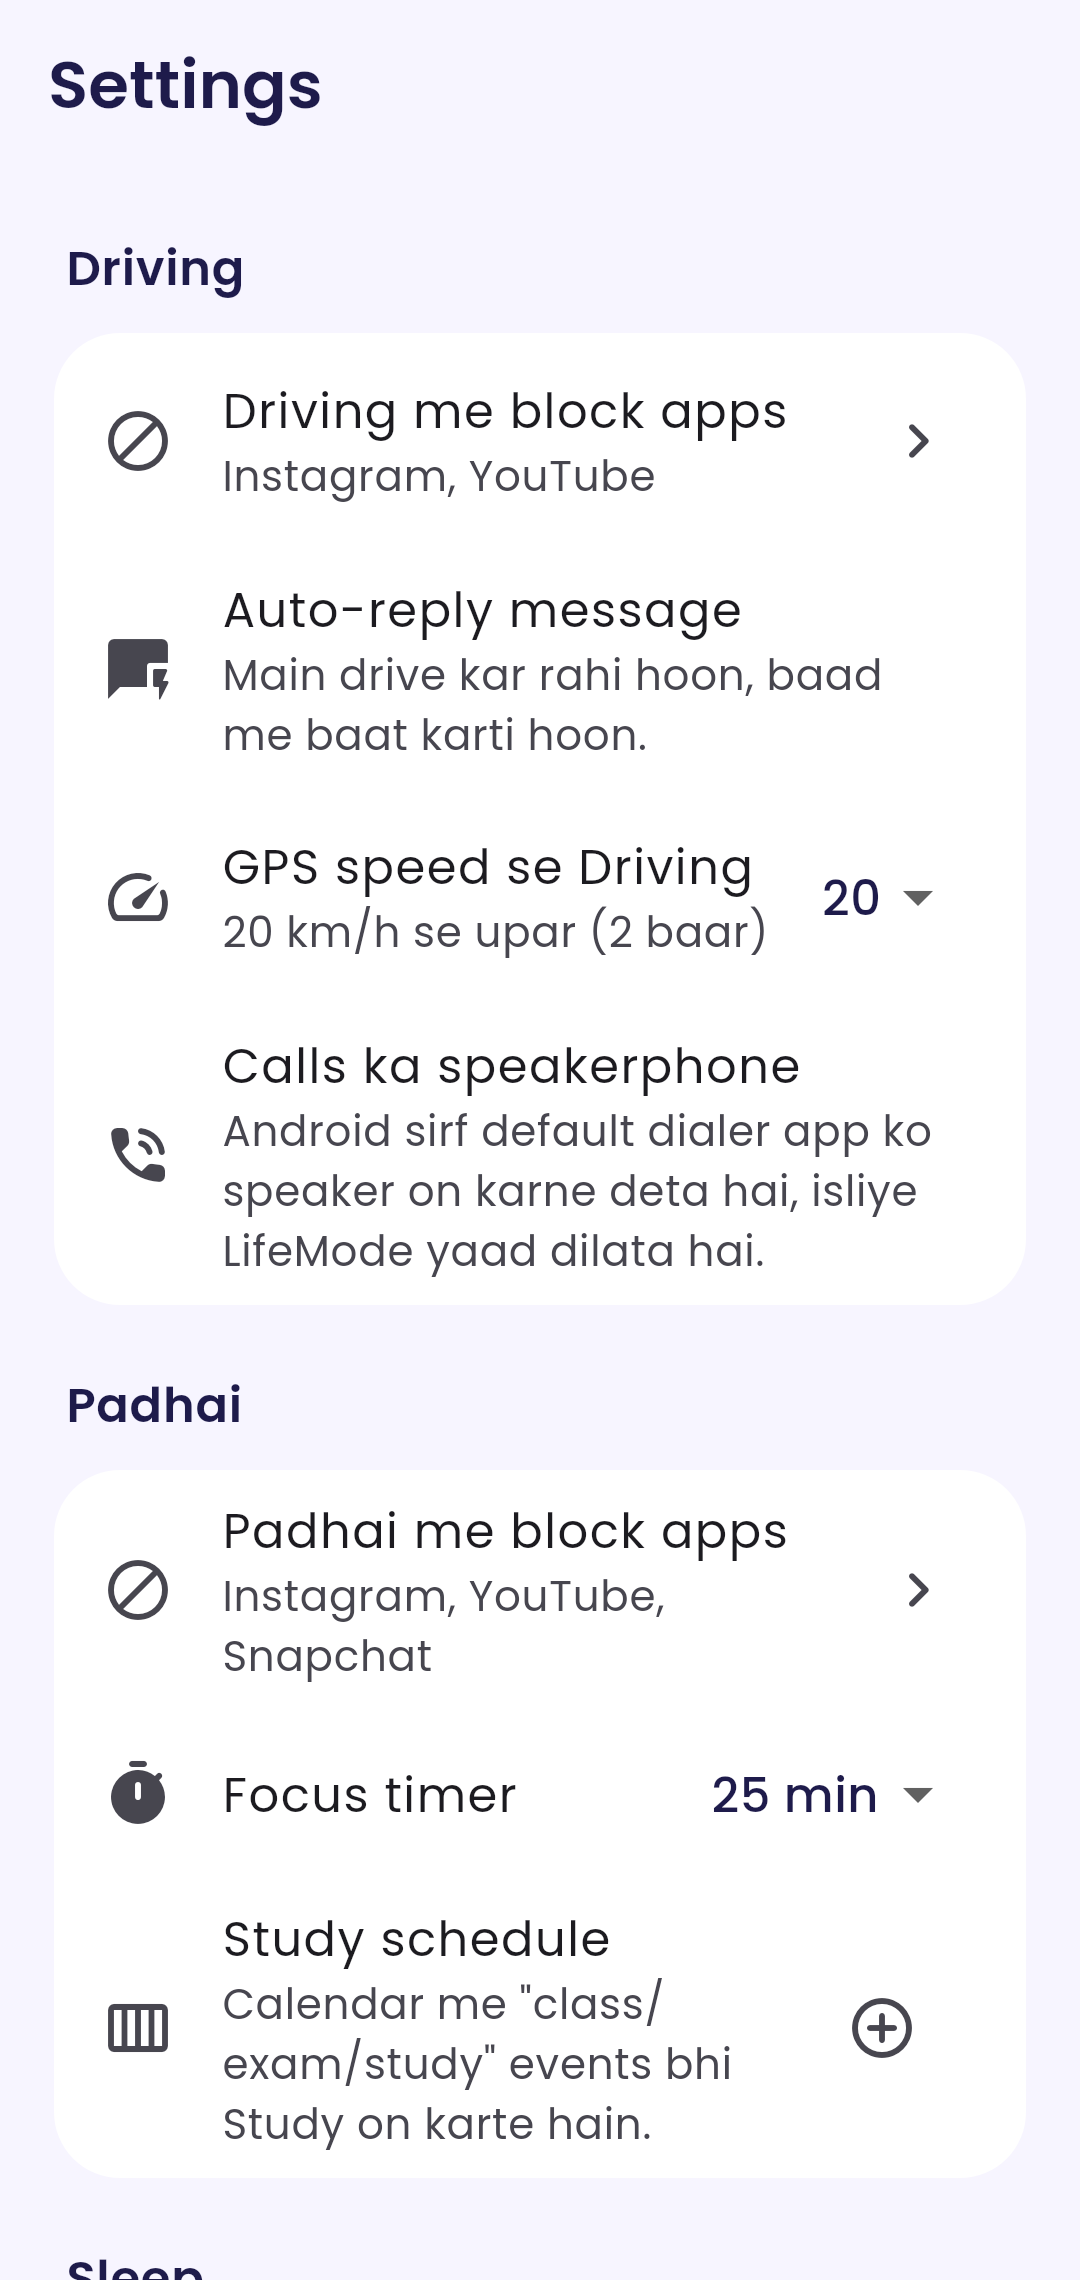
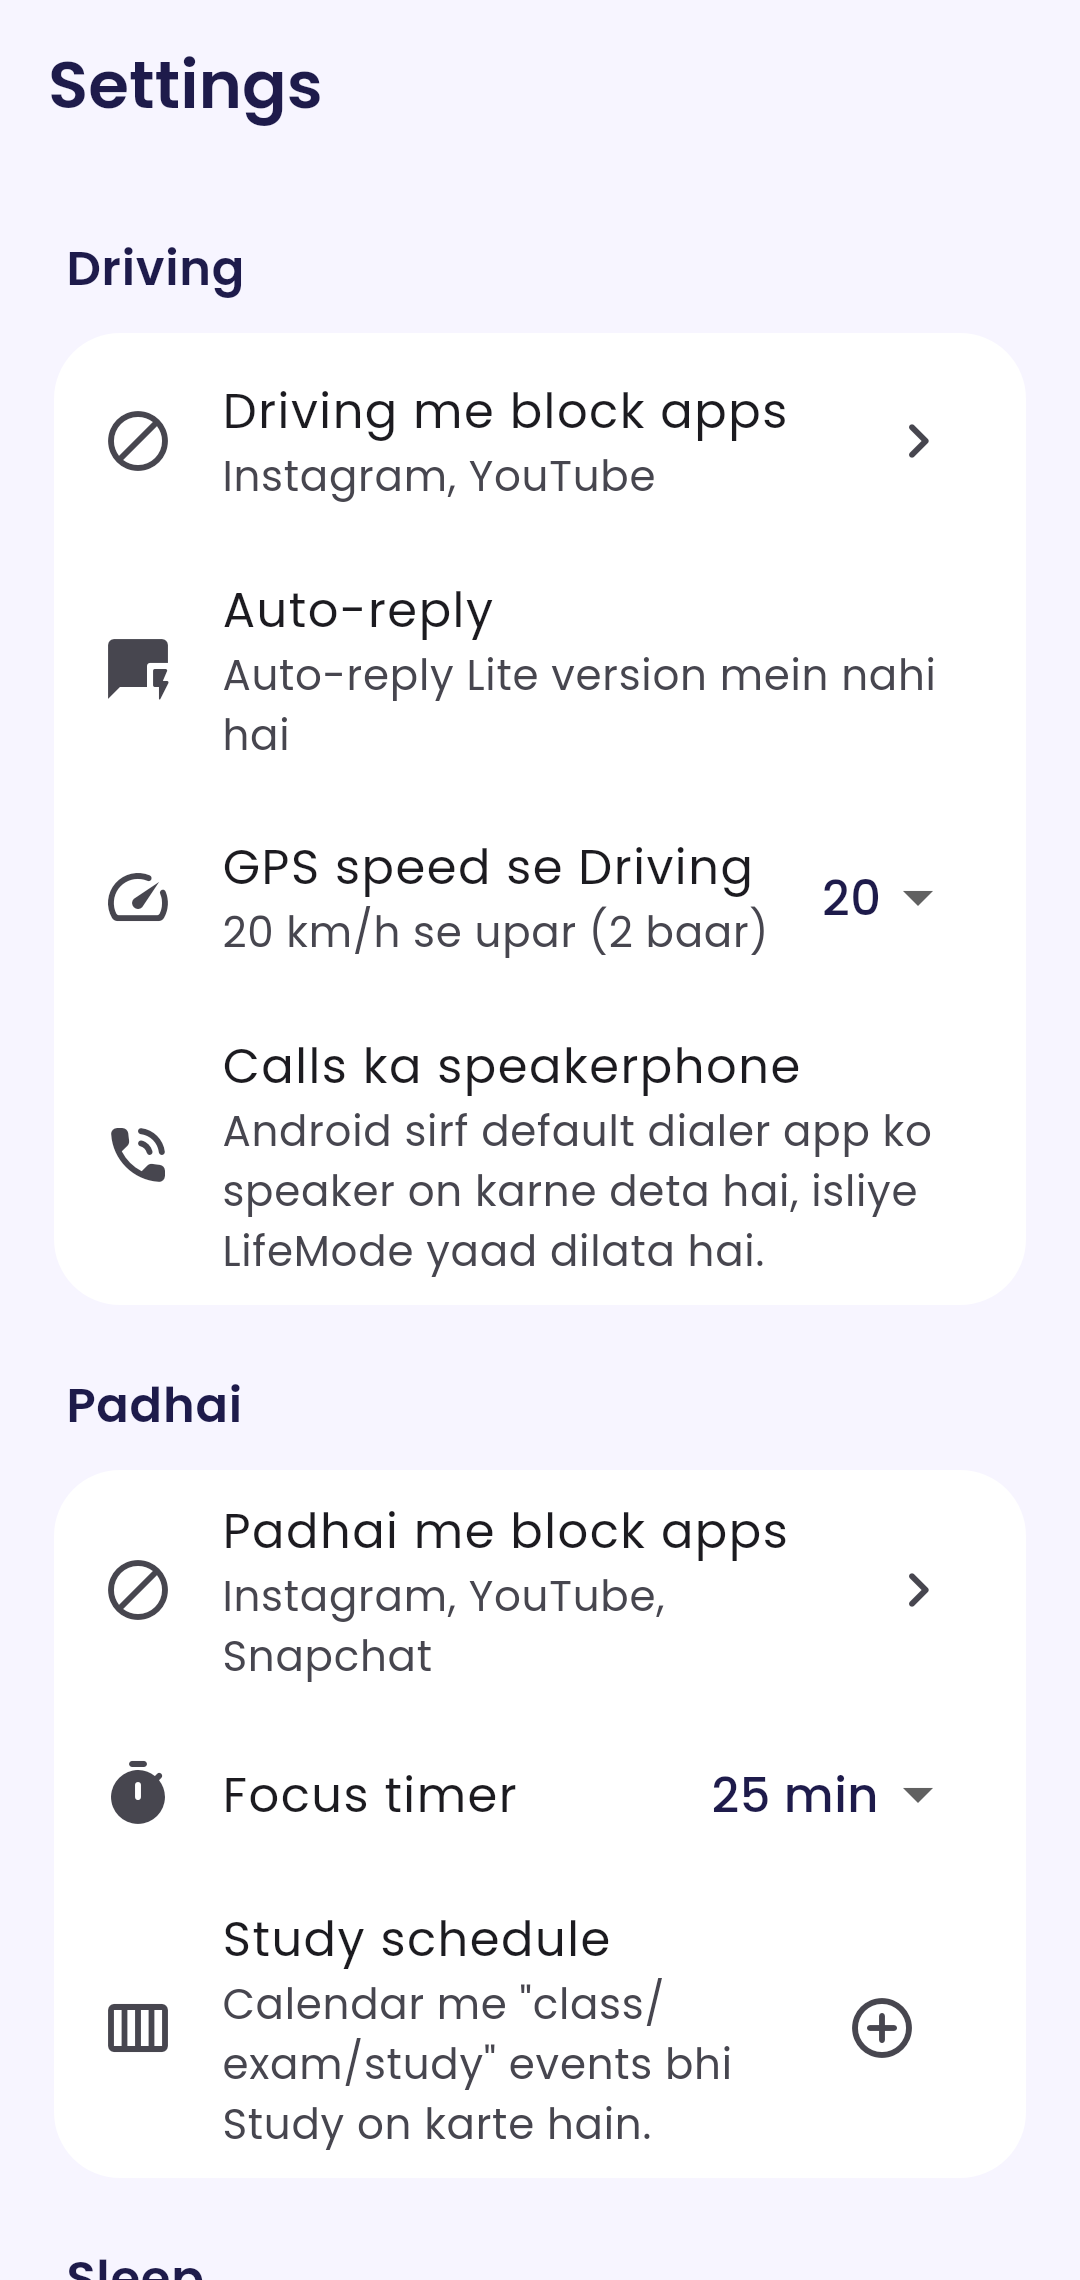
v1.0.1 Lite: drop sensitive permissions for Play Protect

Changed region(s): [[0.2139, 0.2491, 0.8556, 0.3425]]

diff --git a/test/lite_test.dart b/test/lite_test.dart
@@ -1,0 +1,72 @@
+// LifeMode Lite (v1.0.1): guards against re-adding the permissions that make
+// Google Play Protect's enhanced fraud protection block sideloaded installs.
+import 'dart:io';
+
+import 'package:flutter/material.dart';
+import 'package:flutter_test/flutter_test.dart';
+import 'package:lifemode/core/brain.dart';
+import 'package:lifemode/core/i18n.dart';
+import 'package:lifemode/core/models.dart';
+import 'package:lifemode/data/db.dart';
+import 'package:lifemode/platform/native_bridge.dart';
+import 'package:lifemode/state/app_state.dart';
+import 'package:lifemode/ui/screens/onboarding_screen.dart';
+import 'package:lifemode/ui/screens/settings_screen.dart';
+import 'package:lifemode/ui/theme.dart';
+
+void main() {
+  final manifest = File('android/app/src/main/AndroidManifest.xml').readAsStringSync();
+
+  test('manifest has no NotificationListener or AccessibilityService', () {
+    expect(manifest, isNot(contains('BIND_NOTIFICATION_LISTENER_SERVICE')));
+    expect(manifest, isNot(contains('BIND_ACCESSIBILITY_SERVICE')));
+    expect(manifest, isNot(contains('NotificationListenerService')));
+    expect(manifest, isNot(contains('android.accessibilityservice')));
+  });
+
+  test('risky permissions are only present as tools:node="remove"', () {
+    const risky = [
+      'READ_SMS', 'RECEIVE_SMS', 'SEND_SMS', 'READ_CALL_LOG', 'READ_PHONE_STATE',
+      'QUERY_ALL_PACKAGES', 'REQUEST_INSTALL_PACKAGES',
+    ];
+    final lines = manifest.split('\n');
+    for (final p in risky) {
+      for (final l in lines.where((l) => l.contains('android.permission.$p"'))) {
+        expect(l, contains('tools:node="remove"'), reason: '$p must not be requested');
+      }
+    }
+  });
+
+  test('onboarding no longer asks for notification access or accessibility', () {
+    final keys = permissionList.map((p) => p.key).toList();
+    expect(keys, isNot(contains('listener')));
+    expect(keys, isNot(contains('accessibility')));
+    expect(permissionList.firstWhere((p) => p.key == 'overlay').optional, isTrue);
+  });
+
+  test('config drops auto-reply but still reads a v1.0 config', () {
+    final json = const LifeConfig().toJson();
+    expect(json.containsKey('autoReply'), isFalse);
+    expect(json.containsKey('autoReplyText'), isFalse);
+    final old = LifeConfig.fromJson({...json, 'autoReply': true, 'autoReplyText': 'Drive kar rahi hoon'});
+    expect(old.familyName, const LifeConfig().familyName);
+  });
+
+  test('driving notification does not promise an auto-reply', () {
+    final r = Brain.tick(
+        ContextSnapshot(nowMs: DateTime(2026, 11, 9, 16).millisecondsSinceEpoch, activity: 'IN_VEHICLE', speedKmh: 40),
+        const LifeConfig());
+    expect(r.decision.mode, LifeMode.driving);
+    expect(r.body.toLowerCase(), isNot(contains('auto-reply')));
+    expect(const T('hi').modeTagline(LifeMode.driving).toLowerCase(), isNot(contains('auto-reply')));
+  });
+
+  testWidgets('settings shows the Lite auto-reply note', (tester) async {
+    final s = AppState(FakeBridge(config: const LifeConfig(onboarded: true)), MemoryLifeStore(),
+        clock: () => DateTime(2026, 11, 9, 13));
+    await s.init();
+    await tester.pumpWidget(AppScope(state: s, child: MaterialApp(theme: buildTheme(), home: const SettingsScreen())));
+    await tester.pump();
+    expect(find.text(T.liteNoAutoReply), findsOneWidget);
+  });
+}

diff --git a/android/app/src/main/kotlin/com/tanveer/lifemode/ContextService.kt b/android/app/src/main/kotlin/com/tanveer/lifemode/ContextService.kt
@@ -1,5 +1,6 @@
 package com.tanveer.lifemode
 
+import android.provider.Settings
 import android.Manifest
 import android.annotation.SuppressLint
 import android.app.AlarmManager
@@ -212,7 +213,7 @@ class ContextService : Service(), SensorEventListener {
         try { sm.unregisterListener(this) } catch (_: Exception) {}
         try { LocationServices.getFusedLocationProviderClient(this).removeLocationUpdates(locCb) } catch (_: Exception) {}
         exitMode(currentMode)
-        Live.autoReplyActive = false; Live.blockList = emptySet()
+        Live.blockList = emptySet()
         pushStatus()
     }
 
@@ -486,8 +487,6 @@ class ContextService : Service(), SensorEventListener {
             "study" -> Store.strList(cfg, "blockStudy").toSet()
             else -> emptySet()
         }
-        Live.autoReplyActive = mode == "driving" && cfg.optBoolean("autoReply", true)
-        Live.autoReplyText = cfg.optString("autoReplyText", "Main drive kar rahi hoon, baad me baat karti hoon.")
         updateCard(r, cfg)
         r.optJSONObject("suggestion")?.let { showSuggestion(it) }
         pushStatus()
@@ -642,7 +641,7 @@ class ContextService : Service(), SensorEventListener {
     // ---------------------------------------------------------------- blocking
     private val pollLoop = object : Runnable {
         override fun run() {
-            if (Live.blockList.isNotEmpty() && screenOn && !BlockAccessibility.connected) {
+            if (Live.blockList.isNotEmpty() && screenOn) {
                 val (fg, _) = usage(60_000L)
                 checkBlocked(this@ContextService, fg)
             }
@@ -655,7 +654,9 @@ class ContextService : Service(), SensorEventListener {
     private fun pushStatus() { val s = Live.status(this); h.post { Live.statusSink?.invoke(s) } }
 }
 
-/** Shared by the poll loop and the optional AccessibilityService. */
+/** Called by the UsageStats poll loop (Lite: no AccessibilityService). Opens our own
+ *  full-screen BlockActivity. On Android 10+ a background start needs "Display over other
+ *  apps"; without it we fall back to a high-priority notification that opens the shield. */
 object Blocker {
     private var lastAt = 0L
     private var lastPkg = ""
@@ -668,6 +669,13 @@ object Blocker {
         val i = Intent(c, BlockActivity::class.java)
             .addFlags(Intent.FLAG_ACTIVITY_NEW_TASK or Intent.FLAG_ACTIVITY_CLEAR_TOP or Intent.FLAG_ACTIVITY_NO_ANIMATION)
             .putExtra("pkg", pkg).putExtra("mode", Live.mode)
-        try { c.startActivity(i) } catch (_: Exception) {}
+        val canStart = Build.VERSION.SDK_INT < 29 || Settings.canDrawOverlays(c)
+        if (canStart) { try { c.startActivity(i); return } catch (_: Exception) {} }
+        val label = try { c.packageManager.getApplicationLabel(c.packageManager.getApplicationInfo(pkg, 0)).toString() } catch (_: Exception) { pkg }
+        Notifs.post(c, Notifs.ID_BLOCK, Notifs.base(c, Notifs.CH_ALERT,
+            if (Live.mode == "driving") "Driving Mode on" else Store.s(c, "Padhai Mode on", "Study Mode on"),
+            Store.s(c, "$label abhi blocked hai.", "$label is blocked right now."))
+            .setContentIntent(Notifs.activity(c, i)).setAutoCancel(true).setTimeoutAfter(30_000)
+            .setPriority(androidx.core.app.NotificationCompat.PRIORITY_HIGH))
     }
 }

diff --git a/lib/ui/screens/onboarding_screen.dart b/lib/ui/screens/onboarding_screen.dart
@@ -33,14 +33,12 @@ final permissionList = <PermInfo>[
       (t) => t.s('Kaunsa app samne hai (blocking ke liye), focus score aur late-night scrolling.',
           'Which app is open (for blocking), focus score and late-night scrolling.')),
   PermInfo('overlay', Icons.layers_rounded, (t) => t.s('Display over other apps', 'Display over other apps'),
-      (t) => t.s('Blocked app khulne par "Driving Mode on" screen dikhane ke liye.',
-          'To show the "Driving Mode on" screen when a blocked app opens.')),
+      (t) => t.s('Blocked app khulne par "Driving Mode on" screen kholne ke liye. Iske bina sirf notification aayega.',
+          'Lets LifeMode open the "Driving Mode on" screen when a blocked app opens. Without it you only get a notification.'),
+      optional: true),
   PermInfo('dnd', Icons.do_not_disturb_on_rounded, (t) => t.s('Do Not Disturb access', 'Do Not Disturb access'),
       (t) => t.s('Sleep/Driving me DND: sirf starred contacts aur repeat callers aayenge.',
           'DND in Sleep/Driving: only starred contacts and repeat callers ring.')),
-  PermInfo('listener', Icons.quickreply_rounded, (t) => t.s('Notification access', 'Notification access'),
-      (t) => t.s('Driving me WhatsApp/Instagram ko auto-reply. Messages save nahi hote.',
-          'Auto-reply to WhatsApp/Instagram while driving. Messages are never saved.')),
   PermInfo('calendar', Icons.event_rounded, (t) => t.s('Calendar', 'Calendar'),
       (t) => t.s('Class/exam events se Study mode aur "kal ke important kaam" reminder.',
           'Class/exam events for Study mode and the "tomorrow" reminder.'),
@@ -48,10 +46,6 @@ final permissionList = <PermInfo>[
   PermInfo('battery', Icons.battery_saver_rounded, (t) => t.s('Battery optimisation off', 'Ignore battery optimisation'),
       (t) => t.s('Kuch phones (Xiaomi, Oppo, Vivo) background apps band kar dete hain. Ye LifeMode ko chalne deta hai.',
           'Some phones (Xiaomi, Oppo, Vivo) kill background apps. This keeps LifeMode running.'),
-      optional: true),
-  PermInfo('accessibility', Icons.accessibility_new_rounded, (t) => t.s('Accessibility (optional)', 'Accessibility (optional)'),
-      (t) => t.s('Blocked app turant pakadne ke liye. Sirf app ka naam padhta hai, screen nahi.',
-          'Catches blocked apps instantly. Reads only the app name, never the screen.'),
       optional: true),
   PermInfo('mic', Icons.mic_none_rounded, (t) => t.s('Microphone (optional, OFF)', 'Microphone (optional, OFF)'),
       (t) => t.s('Sirf aawaz kitni tez hai (dB), kabhi recording nahi. Default band hai.',

diff --git a/android/app/src/main/kotlin/com/tanveer/lifemode/Perms.kt b/android/app/src/main/kotlin/com/tanveer/lifemode/Perms.kt
@@ -31,7 +31,6 @@ object Perms {
     fun all(c: Context): Map<String, Boolean> {
         val nm = c.getSystemService(Context.NOTIFICATION_SERVICE) as NotificationManager
         val pm = c.getSystemService(Context.POWER_SERVICE) as PowerManager
-        val acc = Settings.Secure.getString(c.contentResolver, Settings.Secure.ENABLED_ACCESSIBILITY_SERVICES) ?: ""
         return mapOf(
             "notifications" to NotificationManagerCompat.from(c).areNotificationsEnabled(),
             "location" to g(c, Manifest.permission.ACCESS_FINE_LOCATION),
@@ -41,8 +40,6 @@ object Perms {
             "usage" to usage(c),
             "overlay" to (Build.VERSION.SDK_INT < 23 || Settings.canDrawOverlays(c)),
             "dnd" to (Build.VERSION.SDK_INT < 23 || nm.isNotificationPolicyAccessGranted),
-            "listener" to NotificationManagerCompat.getEnabledListenerPackages(c).contains(c.packageName),
-            "accessibility" to acc.contains(c.packageName + "/"),
             "mic" to g(c, Manifest.permission.RECORD_AUDIO),
             "battery" to (Build.VERSION.SDK_INT < 23 || pm.isIgnoringBatteryOptimizations(c.packageName)),
         )
@@ -64,8 +61,6 @@ object Perms {
             "usage" -> open(Intent(Settings.ACTION_USAGE_ACCESS_SETTINGS))
             "overlay" -> if (Build.VERSION.SDK_INT >= 23) open(Intent(Settings.ACTION_MANAGE_OVERLAY_PERMISSION, pkg))
             "dnd" -> open(Intent(Settings.ACTION_NOTIFICATION_POLICY_ACCESS_SETTINGS))
-            "listener" -> open(Intent(Settings.ACTION_NOTIFICATION_LISTENER_SETTINGS))
-            "accessibility" -> open(Intent(Settings.ACTION_ACCESSIBILITY_SETTINGS))
             "battery" -> if (Build.VERSION.SDK_INT >= 23) {
                 @Suppress("BatteryLife")
                 open(Intent(Settings.ACTION_REQUEST_IGNORE_BATTERY_OPTIMIZATIONS, pkg))

diff --git a/lib/core/models.dart b/lib/core/models.dart
@@ -40,8 +40,6 @@ class LifeConfig {
   final int overrideUntilMs;
   // Driving
   final List<String> blockDriving;
-  final bool autoReply;
-  final String autoReplyText;
   final int drivingSpeedKmh;
   // Study
   final List<String> blockStudy;
@@ -70,8 +68,6 @@ class LifeConfig {
     this.overrideMode = '',
     this.overrideUntilMs = 0,
     this.blockDriving = const ['com.instagram.android', 'com.google.android.youtube'],
-    this.autoReply = true,
-    this.autoReplyText = 'Main drive kar rahi hoon, baad me baat karti hoon.',
     this.drivingSpeedKmh = 20,
     this.blockStudy = const ['com.instagram.android', 'com.google.android.youtube', 'com.snapchat.android'],
     this.studySlots = const [],
@@ -117,8 +113,6 @@ class LifeConfig {
         'overrideMode': overrideMode,
         'overrideUntilMs': overrideUntilMs,
         'blockDriving': blockDriving,
-        'autoReply': autoReply,
-        'autoReplyText': autoReplyText,
         'drivingSpeedKmh': drivingSpeedKmh,
         'blockStudy': blockStudy,
         'studySlots': [for (final s in studySlots) s.toJson()],
@@ -156,8 +150,6 @@ class LifeConfig {
       overrideMode: (j['overrideMode'] ?? '').toString(),
       overrideUntilMs: i(j['overrideUntilMs'], 0),
       blockDriving: strs(j['blockDriving'], d.blockDriving),
-      autoReply: j['autoReply'] != false,
-      autoReplyText: (j['autoReplyText'] ?? d.autoReplyText).toString(),
       drivingSpeedKmh: i(j['drivingSpeedKmh'], d.drivingSpeedKmh),
       blockStudy: strs(j['blockStudy'], d.blockStudy),
       studySlots: j['studySlots'] is List

diff --git a/lib/core/i18n.dart b/lib/core/i18n.dart
@@ -8,6 +8,9 @@ class T {
   bool get hi => lang != 'en';
   String s(String hinglish, String english) => hi ? hinglish : english;
 
+  /// LifeMode Lite (v1.0.1) has no NotificationListener, so no driving auto-reply.
+  static const liteNoAutoReply = 'Auto-reply Lite version mein nahi hai';
+
   String modeName(LifeMode m) => switch (m) {
         LifeMode.driving => s('Driving', 'Driving'),
         LifeMode.study => s('Padhai', 'Study'),
@@ -17,8 +20,8 @@ class T {
       };
 
   String modeTagline(LifeMode m) => switch (m) {
-        LifeMode.driving => s('Road pe dhyan. Apps blocked, auto-reply on.',
-            'Eyes on the road. Apps blocked, auto-reply on.'),
+        LifeMode.driving => s('Road pe dhyan. Apps blocked, Maps ready.',
+            'Eyes on the road. Apps blocked, Maps ready.'),
         LifeMode.study => s('Focus time. Social apps blocked, timer ready.',
             'Focus time. Social apps blocked, timer ready.'),
         LifeMode.sleep => s('Phone shaant hai. Sirf starred contacts aur repeat calls.',

diff --git a/lib/ui/screens/home_screen.dart b/lib/ui/screens/home_screen.dart
@@ -1,6 +1,7 @@
 import 'package:flutter/material.dart';
 
 import '../../core/brain.dart';
+import '../../core/i18n.dart';
 import '../../core/icon_schedule.dart';
 import '../../core/models.dart';
 import '../../state/app_state.dart';
@@ -197,12 +198,10 @@ class _QuickToggles extends StatelessWidget {
           ]),
         ),
         const Divider(height: 1, indent: 16, endIndent: 16),
-        SwitchListTile(
-          secondary: const Icon(Icons.chat_bubble_outline_rounded),
+        ListTile(
+          leading: const Icon(Icons.chat_bubble_outline_rounded),
           title: Text(t.s('Driving auto-reply', 'Driving auto-reply')),
-          subtitle: Text(cfg.autoReplyText, maxLines: 1, overflow: TextOverflow.ellipsis),
-          value: cfg.autoReply,
-          onChanged: (v) => s.update({'autoReply': v}),
+          subtitle: Text(T.liteNoAutoReply),
         ),
         const Divider(height: 1, indent: 16, endIndent: 16),
         SwitchListTile(

diff --git a/lib/ui/screens/settings_screen.dart b/lib/ui/screens/settings_screen.dart
@@ -1,5 +1,6 @@
 import 'package:flutter/material.dart';
 
+import '../../core/i18n.dart';
 import '../../core/models.dart';
 import '../../state/app_state.dart';
 import '../../platform/native_bridge.dart';
@@ -46,12 +47,8 @@ class SettingsScreen extends StatelessWidget {
             ),
             ListTile(
               leading: const Icon(Icons.quickreply_rounded),
-              title: Text(t.s('Auto-reply message', 'Auto-reply message')),
-              subtitle: Text(c.autoReplyText),
-              onTap: () async {
-                final v = await _editText(context, t.s('Auto-reply message', 'Auto-reply message'), c.autoReplyText);
-                if (v != null && v.trim().isNotEmpty) s.update({'autoReplyText': v.trim()});
-              },
+              title: Text(t.s('Auto-reply', 'Auto-reply')),
+              subtitle: Text(T.liteNoAutoReply),
             ),
             ListTile(
               leading: const Icon(Icons.speed_rounded),

diff --git a/android/app/src/main/kotlin/com/tanveer/lifemode/BlockActivity.kt b/android/app/src/main/kotlin/com/tanveer/lifemode/BlockActivity.kt
@@ -43,8 +43,8 @@ class BlockActivity : Activity() {
             setPadding(0, dp(20), 0, dp(8))
         })
         root.addView(TextView(this).apply {
-            text = if (driving) Store.s(this@BlockActivity, "$label abhi blocked hai. Road pe dhyan do, messages ka auto-reply ja raha hai.",
-                "$label is blocked right now. Eyes on the road; messages get an auto-reply.")
+            text = if (driving) Store.s(this@BlockActivity, "$label abhi blocked hai. Road pe dhyan do.",
+                "$label is blocked right now. Eyes on the road.")
             else Store.s(this@BlockActivity, "$label focus ke baad. Bas thoda aur padh lo!", "$label can wait until after focus. Almost there!")
             setTextColor(0xCCFFFFFF.toInt()); textSize = 17f; gravity = Gravity.CENTER
         })

diff --git a/lib/core/brain.dart b/lib/core/brain.dart
@@ -37,8 +37,7 @@ class Brain {
     switch (d.mode) {
       case LifeMode.driving:
         title = t.s('Driving Mode on', 'Driving Mode on');
-        body = t.s('Apps blocked, auto-reply ${cfg.autoReply ? 'on' : 'off'}. Maps ek tap pe.',
-            'Apps blocked, auto-reply ${cfg.autoReply ? 'on' : 'off'}. Maps is one tap away.');
+        body = t.s('Apps blocked. Maps ek tap pe.', 'Apps blocked. Maps is one tap away.');
         lines.add(t.s('Calls: speaker ya Bluetooth khud on karein (Android allow nahi karta).',
             'Calls: turn on speaker or Bluetooth yourself (Android does not allow apps to).'));
       case LifeMode.study:

diff --git a/android/app/src/main/kotlin/com/tanveer/lifemode/Store.kt b/android/app/src/main/kotlin/com/tanveer/lifemode/Store.kt
@@ -86,8 +86,6 @@ object Live {
     @Volatile var reason: String = ""
     @Volatile var manual: Boolean = false
     @Volatile var serviceRunning = false
-    @Volatile var autoReplyActive = false
-    @Volatile var autoReplyText = ""
     @Volatile var blockList: Set<String> = emptySet()
     @Volatile var pomodoroEndMs: Long = 0
     @Volatile var lastSnapshot: JSONObject = JSONObject()

diff --git a/android/app/src/main/kotlin/com/tanveer/lifemode/Notifs.kt b/android/app/src/main/kotlin/com/tanveer/lifemode/Notifs.kt
@@ -21,6 +21,7 @@ object Notifs {
     const val ID_SUGGEST = 3
     const val ID_NUDGE = 4
     const val ID_BOOT = 5
+    const val ID_BLOCK = 6
 
     fun channels(c: Context) {
         if (Build.VERSION.SDK_INT < 26) return
